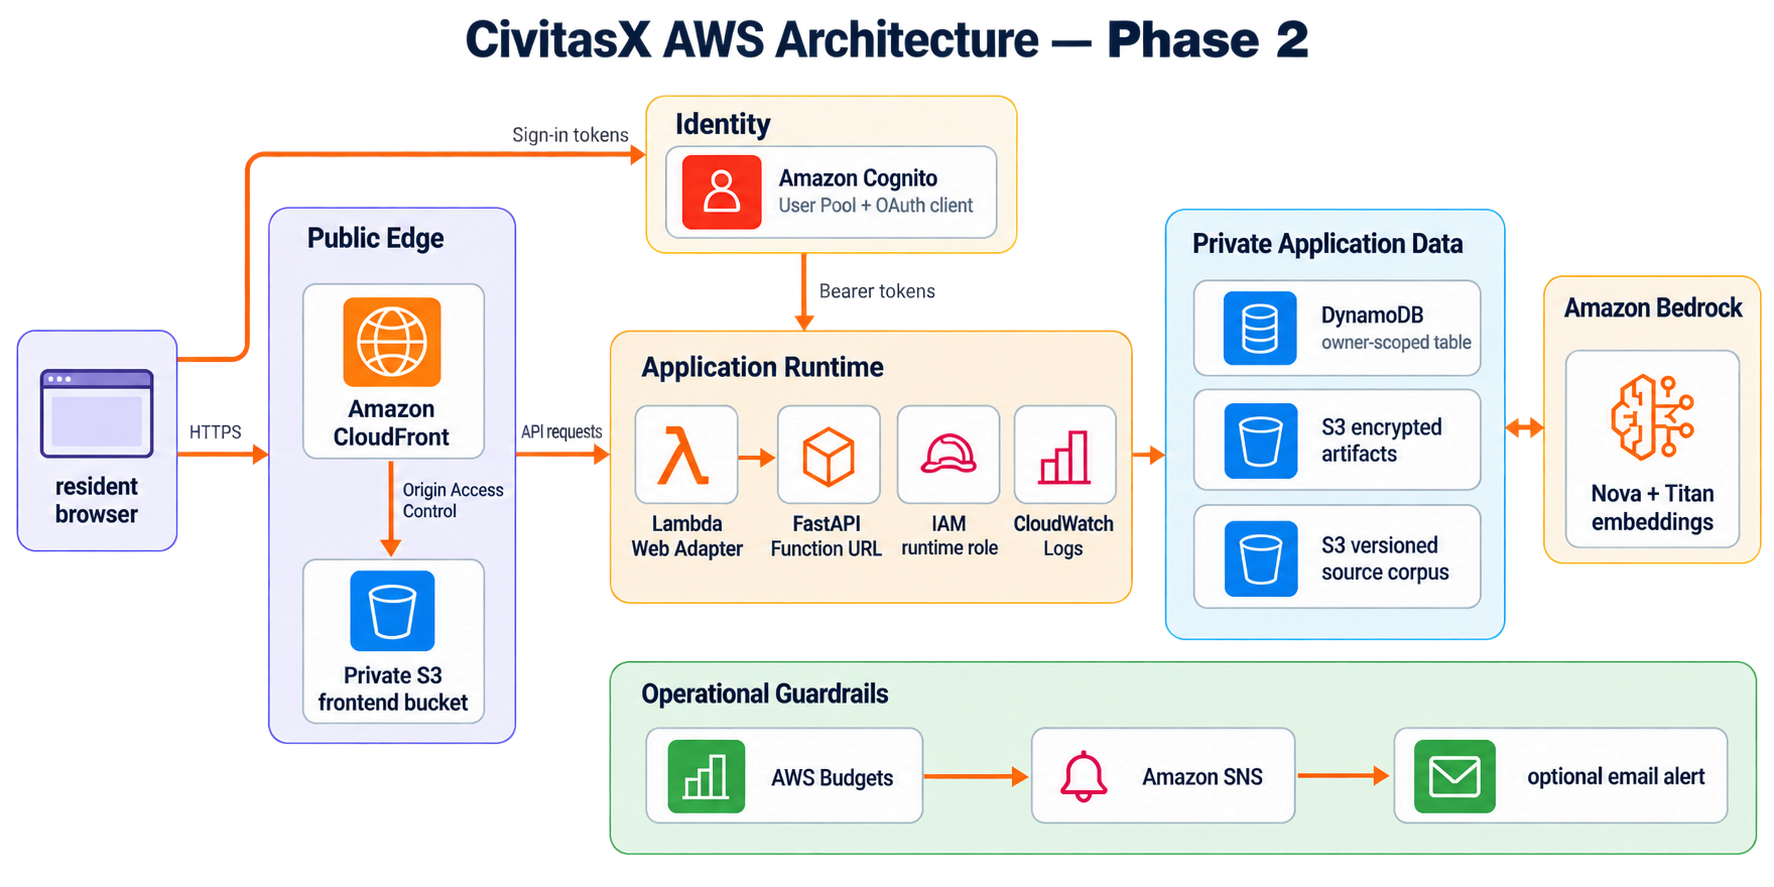
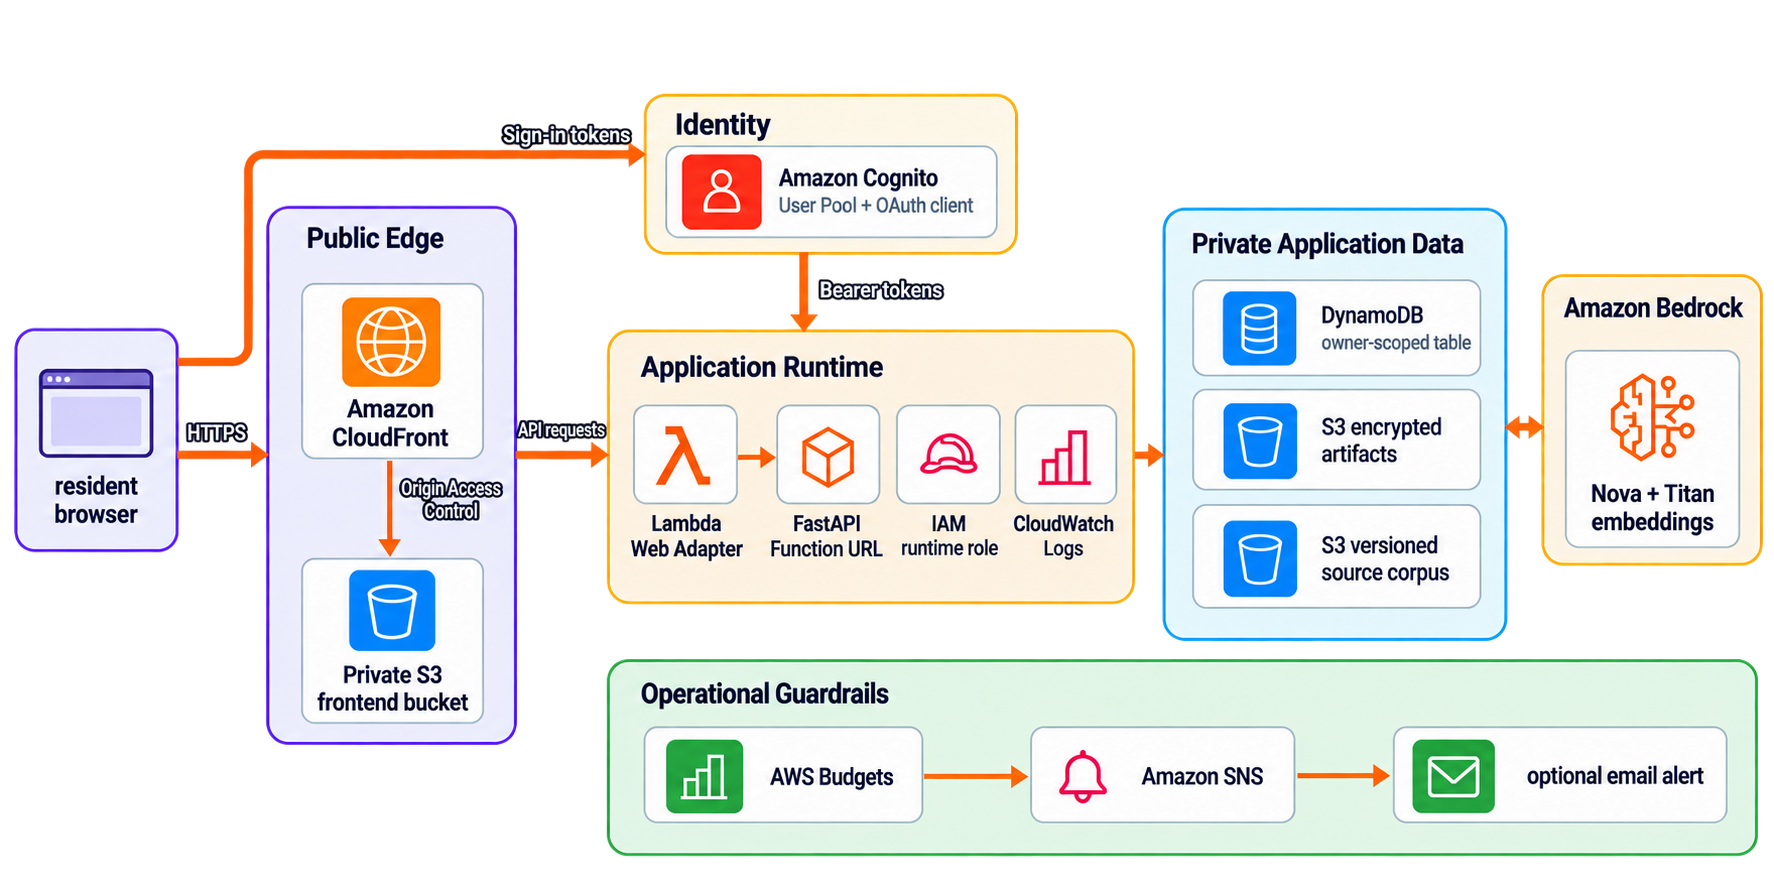
Improve dark-mode readability of AWS diagram

diff --git a/README.md b/README.md
@@ -8,7 +8,7 @@ CivitasX is a local-first civic network for Bengaluru residents. It combines a p
 
 The Phase 2 AWS boundary is defined in [`infra/template.yaml`](infra/template.yaml):
 
-![CivitasX AWS Architecture — Phase 2](docs/aws-architecture-phase2.png)
+![AWS architecture diagram](docs/aws-architecture-phase2.png)
 
 The frontend bucket, artifacts bucket, and source-corpus bucket remain private. The application uses Cognito for production identity, DynamoDB for owner-scoped state, S3 for artifacts and versioned source documents, and Bedrock only when the configured cloud provider is enabled.
 
